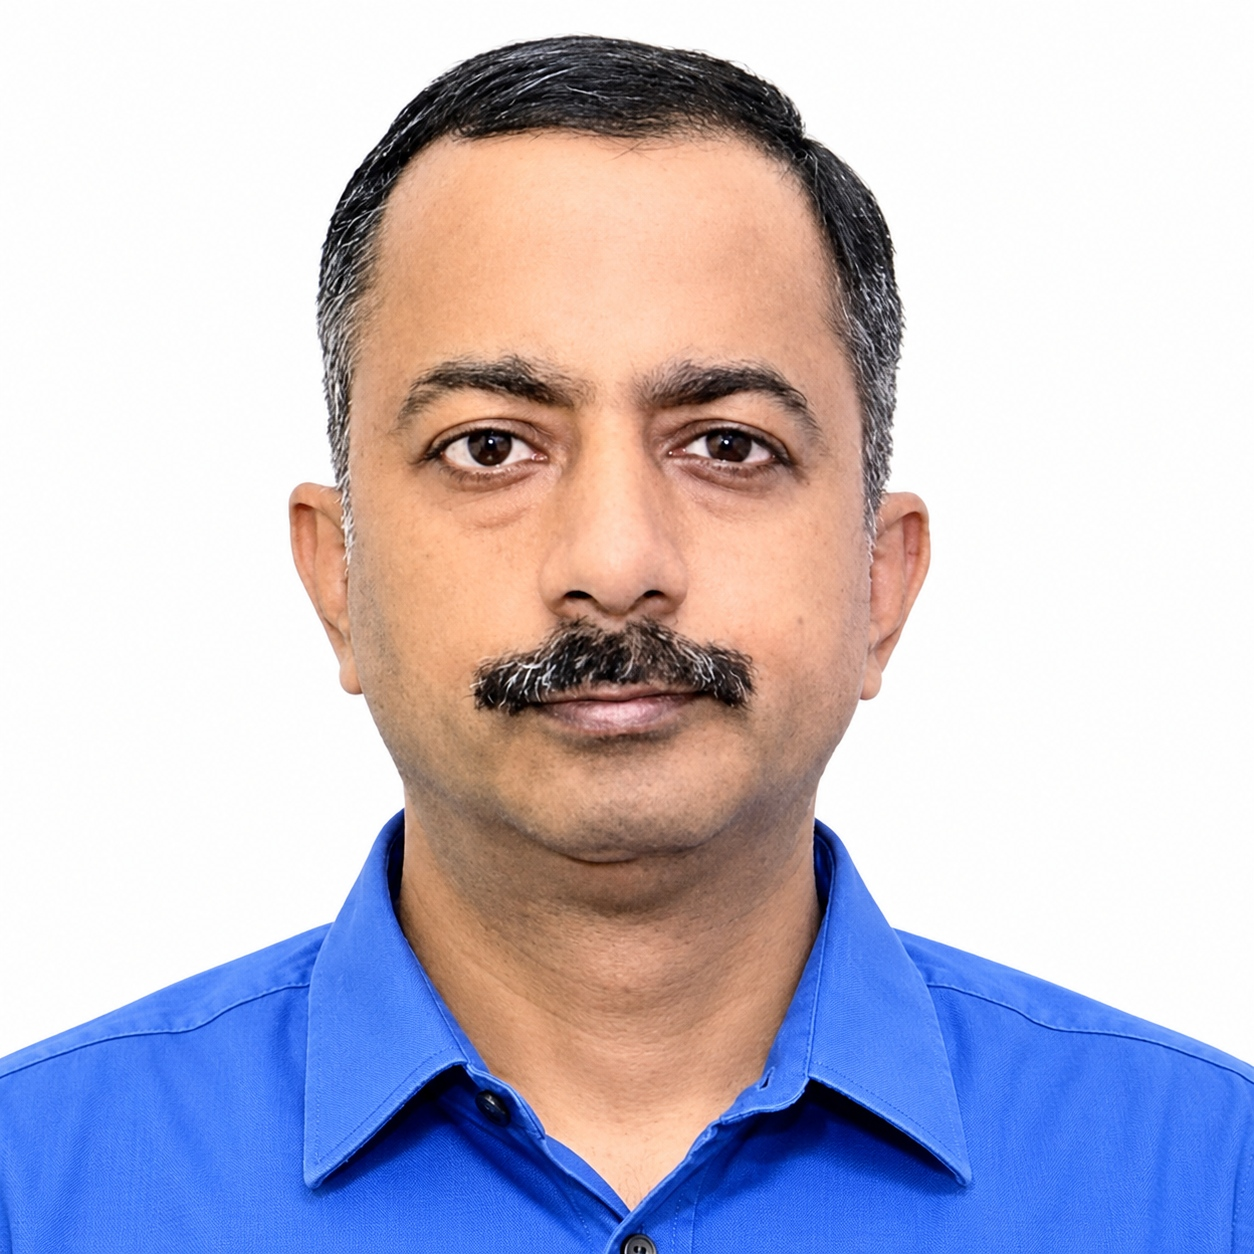
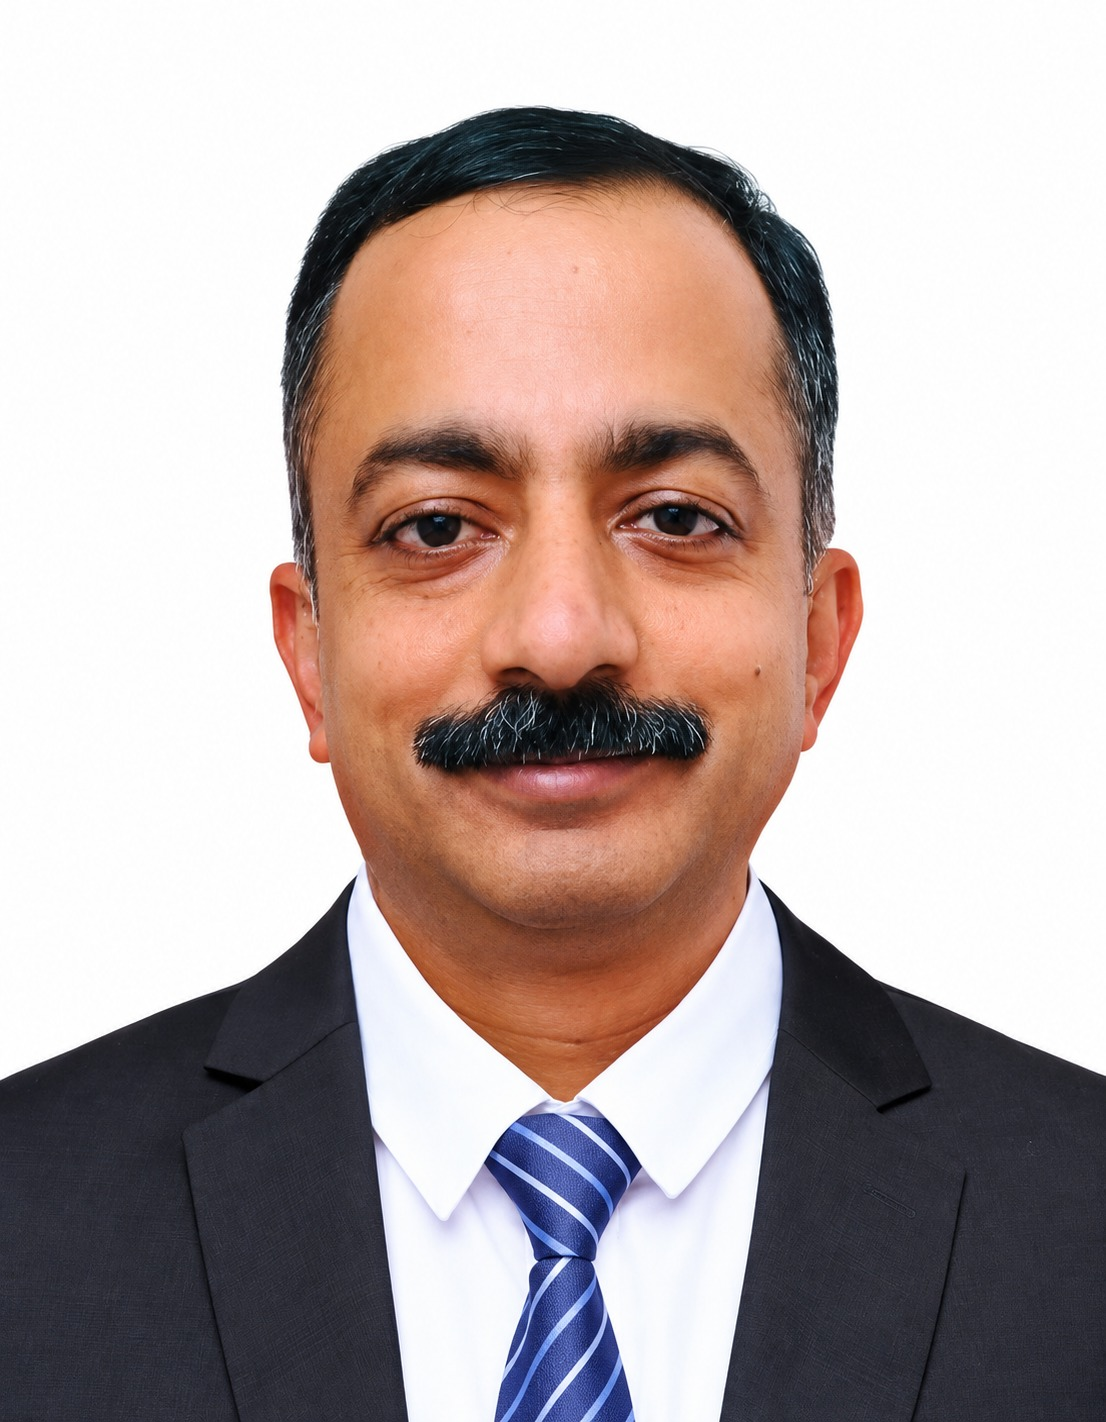
feat: leadership updates - balanced text justification, clean hierarchy without lines, removed bullets and dates, updated Swatanter photo, and fixed Amit photo and bio

diff --git a/components/site/Team.tsx b/components/site/Team.tsx
@@ -26,9 +26,20 @@ export default async function Team() {
         <div className="section-head reveal center" style={{ textAlign: "center", marginBottom: "48px" }}>
           <span className="eyebrow center">Governance &amp; Operational Command</span>
           <h2 style={{ fontSize: "clamp(2rem, 3.5vw, 2.8rem)", marginBottom: "12px" }}>Corporate Hierarchy</h2>
-          <p className="lead center" style={{ maxWidth: "720px", margin: "0 auto", color: "var(--ink-2)" }}>
-            Clear executive accountability steering strategic governance, sterile agro-industrial manufacturing, 
-            disciplined financial control, and pan-Nigerian commercial distribution.
+          <p
+            className="lead center"
+            style={{
+              maxWidth: "760px",
+              margin: "0 auto",
+              color: "var(--ink-2)",
+              textAlign: "justify",
+              textJustify: "inter-word",
+              hyphens: "none",
+            }}
+          >
+            Clear executive leadership and operational accountability steering strategic corporate governance,
+            modern agro-industrial spice processing, disciplined financial control, and pan-Nigerian commercial
+            distribution.
           </p>
         </div>
 
@@ -57,13 +68,6 @@ export default async function Team() {
                     <div className="org-card-role-title">{deepak.role}</div>
                     <div className="org-card-division">Board of Directors</div>
                     {deepak.bio && <p className="org-card-bio">{deepak.bio}</p>}
-                    {deepak.bullets && deepak.bullets.length > 0 && (
-                      <ul className="org-card-bullets">
-                        {deepak.bullets.map((b, idx) => (
-                          <li key={idx}>{b}</li>
-                        ))}
-                      </ul>
-                    )}
                   </div>
                 </div>
               </article>
@@ -85,27 +89,10 @@ export default async function Team() {
                     <div className="org-card-role-title">{swatanter.role}</div>
                     <div className="org-card-division">Executive Management &amp; Board</div>
                     {swatanter.bio && <p className="org-card-bio">{swatanter.bio}</p>}
-                    {swatanter.bullets && swatanter.bullets.length > 0 && (
-                      <ul className="org-card-bullets">
-                        {swatanter.bullets.map((b, idx) => (
-                          <li key={idx}>{b}</li>
-                        ))}
-                      </ul>
-                    )}
                   </div>
                 </div>
               </article>
 
-            </div>
-          </div>
-
-          {/* Connector Stem: Tier 1 -> Tier 2 (3 Columns) */}
-          <div className="org-tree-branch-connector" aria-hidden="true">
-            <span className="org-branch-stem-down"></span>
-            <div className="org-branch-crossbar">
-              <span className="org-branch-node org-branch-node--left"></span>
-              <span className="org-branch-node org-branch-node--mid"></span>
-              <span className="org-branch-node org-branch-node--right"></span>
             </div>
           </div>
 
@@ -116,7 +103,6 @@ export default async function Team() {
 
               {/* 1. GM Sales: Amit Gautam */}
               <div className="org-tree-col">
-                <span className="org-col-drop-line" aria-hidden="true"></span>
                 <article className="org-card org-card--functional org-card--active reveal d1">
                   <div className="org-card-badge org-card-badge--amber">
                     <span>GM Sales</span>
@@ -144,7 +130,6 @@ export default async function Team() {
 
               {/* 2. GM Factory: Jagdeep Rana */}
               <div className="org-tree-col">
-                <span className="org-col-drop-line" aria-hidden="true"></span>
                 <article className="org-card org-card--functional org-card--blank reveal d2">
                   <div className="org-card-badge org-card-badge--grey">
                     <span>GM Factory</span>
@@ -168,7 +153,6 @@ export default async function Team() {
 
               {/* 3. CFO: Yoganand Raj */}
               <div className="org-tree-col">
-                <span className="org-col-drop-line" aria-hidden="true"></span>
                 <article className="org-card org-card--functional org-card--blank reveal d3">
                   <div className="org-card-badge org-card-badge--grey">
                     <span>Chief Financial Officer</span>
@@ -193,15 +177,6 @@ export default async function Team() {
             </div>
           </div>
 
-          {/* Connector Stem: Tier 2 -> Tier 3 (2 Columns) */}
-          <div className="org-tree-branch-connector org-tree-branch-connector--duo" aria-hidden="true">
-            <span className="org-branch-stem-down"></span>
-            <div className="org-branch-crossbar org-branch-crossbar--duo">
-              <span className="org-branch-node org-branch-node--left"></span>
-              <span className="org-branch-node org-branch-node--right"></span>
-            </div>
-          </div>
-
           {/* TIER 3: Stella & Fred Together (Marketing & Sales Coordination) */}
           <div className="org-tree-level org-tree-level--duo-bottom">
             <div className="org-level-tag">Commercial Operations &amp; Marketing Execution</div>
@@ -209,7 +184,6 @@ export default async function Team() {
               
               {/* Stella Ikpe - Sales & Marketing Coordinator */}
               <div className="org-tree-col">
-                <span className="org-col-drop-line" aria-hidden="true"></span>
                 <article className="org-card org-card--coord reveal d1">
                   <div className="org-card-badge org-card-badge--green">
                     <span>Sales &amp; Marketing Coordinator</span>
@@ -237,7 +211,6 @@ export default async function Team() {
 
               {/* Fred Nze - Head of Marketing */}
               <div className="org-tree-col">
-                <span className="org-col-drop-line" aria-hidden="true"></span>
                 <article className="org-card org-card--coord reveal d2">
                   <div className="org-card-badge org-card-badge--chilli">
                     <span>Head of Marketing</span>

diff --git a/lib/data.ts b/lib/data.ts
@@ -286,11 +286,8 @@ export const TEAM: UITeamMember[] = [
     role: "Managing Director",
     department: "Board Leadership",
     tier: 1,
-    bio: "Appointed to the board of directors on 18th Dec 2017. He brings over 15 years of experience in international commodity markets and 10+ years steering agro-industrial manufacturing and supply chains across Nigeria.",
-    bullets: [
-      "Appointed to the board of directors on 18th Dec 2017.",
-      "15+ years in international trade and 10+ years in Nigerian FMCG & agribusiness.",
-    ],
+    bio: "Serving on the board of directors, he brings over 15 years of experience in international commodity markets and 10+ years steering agro-industrial manufacturing and supply chains across Nigeria.",
+    bullets: [],
     photo: "/img/team/deepak-portrait.jpg",
   },
   {
@@ -300,12 +297,9 @@ export const TEAM: UITeamMember[] = [
     role: "Chief Executive Officer & Director",
     department: "Executive Management",
     tier: 2,
-    bio: "Appointed COO in June 2023 and to the board of directors in Nov 2024. Over 15 years leading automated FMCG manufacturing plants across Africa, driving operations, milling technology, and engineer mentoring.",
-    bullets: [
-      "Appointed to the board of directors in Nov 2024; serving as Chief Executive Officer.",
-      "Over 15 years leading automated FMCG processing and milling plants across Africa.",
-    ],
-    photo: "/img/team/swatanter-saraswat.jpg",
+    bio: "Serving as Chief Executive Officer and director on the board, he brings over 15 years of leadership across automated FMCG manufacturing plants in Africa, driving operational excellence, milling technology, and engineer mentoring.",
+    bullets: [],
+    photo: "/img/team/swatanter-saraswat.jpg?v=20261006",
   },
   {
     id: "jr",
@@ -326,12 +320,9 @@ export const TEAM: UITeamMember[] = [
     department: "Commercial Sales & Distribution",
     credentials: "MBA · Durham Business School, UK",
     tier: 3,
-    bio: "With 22 years of FMCG experience across India and Nigeria including Unilever, ITC, VBL and SNF Foods Ltd. He brings strong expertise in sales, business development, distribution, and P&L management. He holds an MBA degree from Durham Business School, UK.",
-    bullets: [
-      "22 years FMCG leadership across India and Nigeria (Unilever, ITC, VBL, SNF Foods Ltd).",
-      "MBA from Durham Business School, UK; specialist in sales expansion, distribution, and P&L management.",
-    ],
-    photo: "/img/team/amit-gautam.jpg?v=20261005",
+    bio: "With 22 years of FMCG experience across India and Nigeria in leading multinational food enterprises, he brings strong expertise in sales, business development, distribution networks, and P&L management. He holds an MBA degree from Durham Business School, UK.",
+    bullets: [],
+    photo: "/img/team/amit-gautam.jpg?v=20261006",
   },
   {
     id: "yr",
@@ -350,13 +341,10 @@ export const TEAM: UITeamMember[] = [
     name: "Stella Ikpe",
     role: "Sales and Marketing Coordinator",
     department: "Sales Operations & Market Coordination",
-    credentials: "B.Sc. Marketing · Since June 2023",
+    credentials: "B.Sc. Marketing · Commercial Execution",
     tier: 3,
-    bio: "With over 15 years of expertise in driving sales growth, managing market operations, analyzing business performance, and using data-driven insights to support strategic decision-making.",
-    bullets: [
-      "B.Sc. Marketing; driving commercial operations and sales growth since June 2023.",
-      "15+ years expertise in business analytics, distributor operations, and strategic marketing.",
-    ],
+    bio: "With over 15 years of expertise in driving commercial sales growth, managing market operations, analyzing business performance, and leveraging data-driven insights to support strategic decision-making.",
+    bullets: [],
     photo: "/img/team/stella-ikpe.jpg?v=20261005",
   },
   {

diff --git a/app/globals.css b/app/globals.css
@@ -9390,6 +9390,7 @@ img { -webkit-user-drag: none; }
   flex-direction: column;
   align-items: center;
   position: relative;
+  gap: clamp(40px, 5.5vw, 64px);
 }
 
 /* Level Labels & Cards */
@@ -9541,7 +9542,7 @@ img { -webkit-user-drag: none; }
   width: 100%;
   height: 100%;
   object-fit: cover;
-  object-position: center center;
+  object-position: center top;
   display: block;
 }
 
@@ -9611,67 +9612,13 @@ img { -webkit-user-drag: none; }
   align-self: flex-start;
 }
 
-/* Connectors */
-.org-tree-branch-connector {
-  width: 100%;
-  max-width: 1080px;
-  display: flex;
-  flex-direction: column;
-  align-items: center;
-  position: relative;
-  margin: 0 auto;
-}
-
-.org-branch-stem-down {
-  width: 2px;
-  height: 32px;
-  background: #CBD5E1;
-}
-
-.org-branch-crossbar {
-  width: calc(66.666% + 32px);
-  height: 2px;
-  background: #CBD5E1;
-  position: relative;
-  display: flex;
-  justify-content: space-between;
-}
-
-.org-branch-crossbar--duo {
-  width: calc(50% + 24px);
-  max-width: 540px;
-}
-
-.org-branch-node {
-  width: 8px;
-  height: 8px;
-  border-radius: 50%;
-  background: #64748B;
-  box-shadow: 0 0 0 3px #FFFFFF;
-  position: absolute;
-  top: 50%;
-  transform: translateY(-50%);
-}
-
-.org-branch-node--left {
-  left: 0;
-}
-
-.org-branch-node--mid {
-  left: 50%;
-  transform: translate(-50%, -50%);
-}
-
-.org-branch-node--right {
-  right: 0;
-}
-
+/* Connectors disabled: clean tiered hierarchy without lines */
+.org-tree-branch-connector,
+.org-branch-stem-down,
+.org-branch-crossbar,
+.org-branch-node,
 .org-col-drop-line {
-  display: block;
-  width: 2px;
-  height: 24px;
-  background: #CBD5E1;
-  margin: 0 auto;
+  display: none !important;
 }
 
 /* Tier 2: Trio Grid (GM Sales, GM Factory, CFO) */
